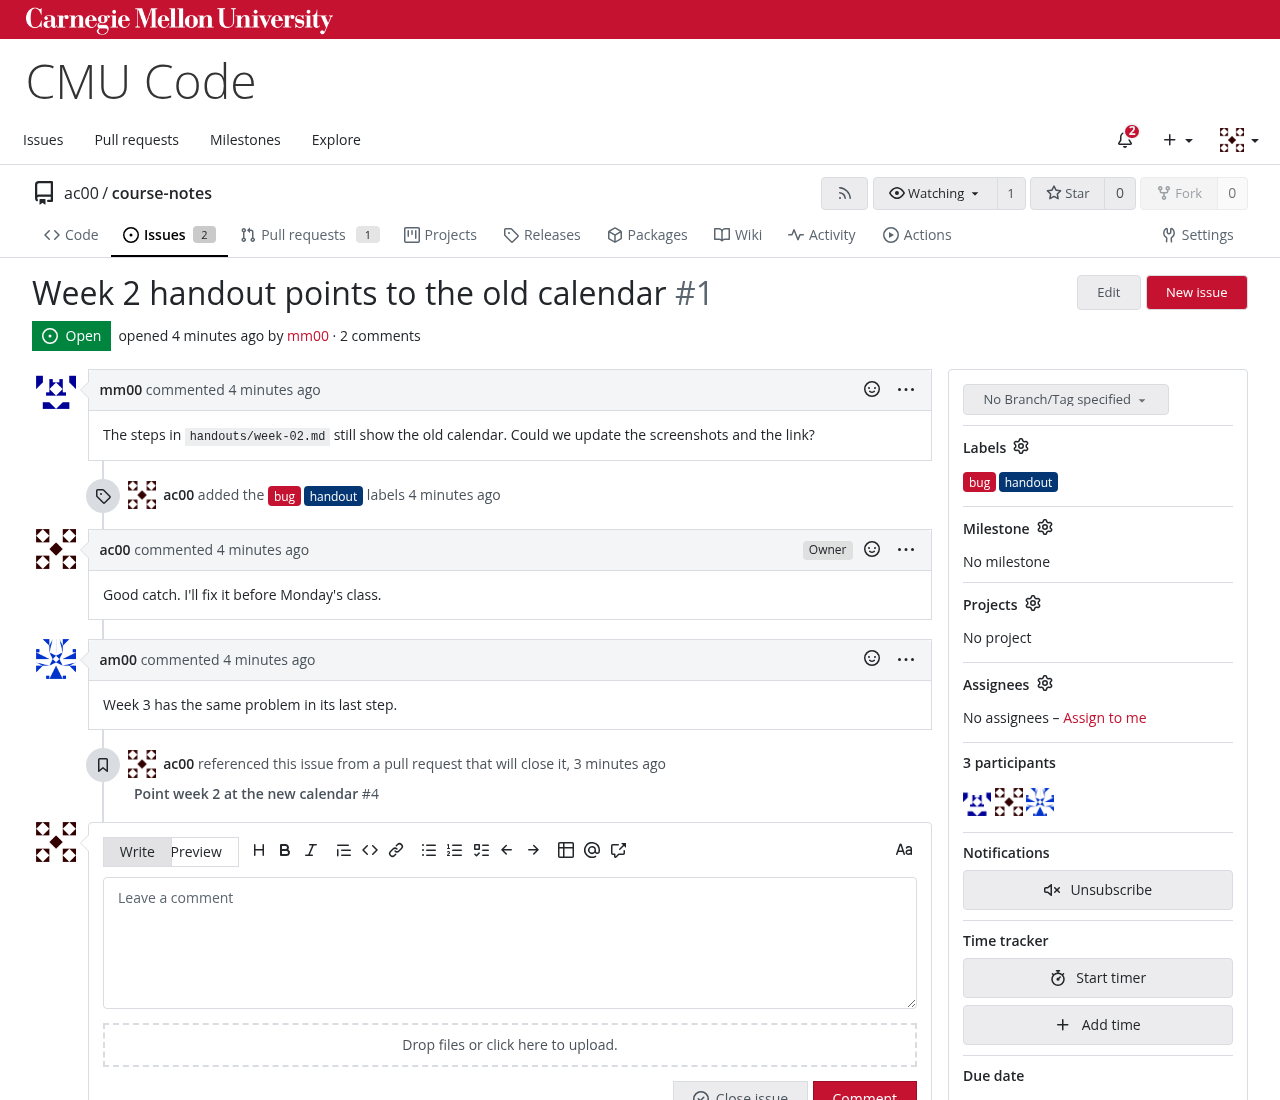
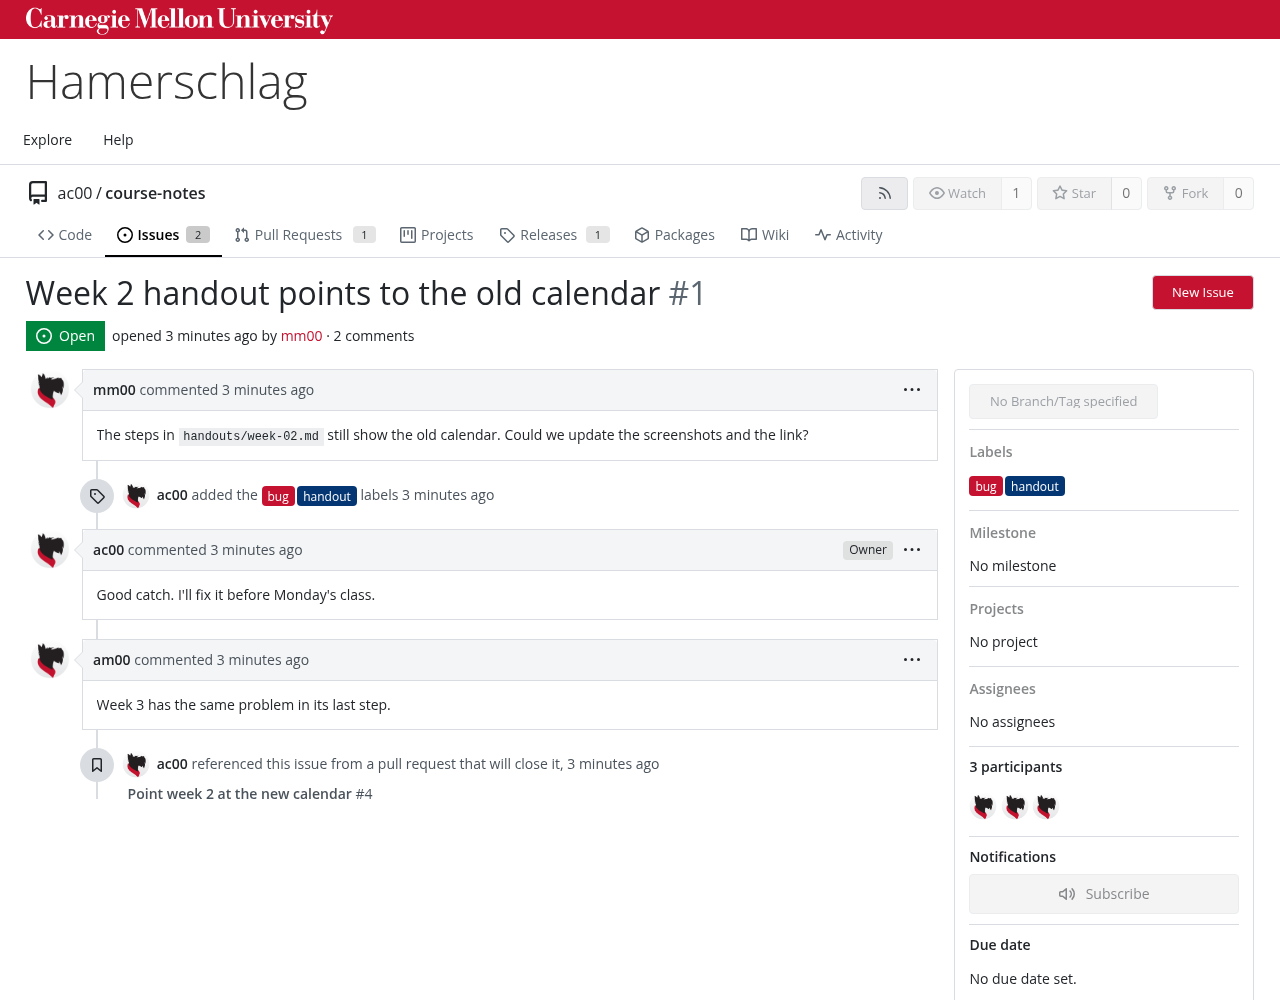
docs: README for Hamerschlag, its demo and an AI agent prompt
* What it replaces in Forgejo, to check on every update
* Set Up With an AI Agent
* Demo and Run It Locally sections
* Fresh screenshots and the cmu-web-preview.webp card image

diff --git a/README.md b/README.md
@@ -4,9 +4,11 @@ A light theme for [Forgejo](https://forgejo.org/) that follows Carnegie
 Mellon's web template and the
 [Carnegie Mellon Web Kilt](https://webkilt.andrew.cmu.edu/0/). It adds the
 template's red roof with the wordmark, the site name and the dark footer, and
-turns Forgejo's own colors, corners and font into the Kilt's.
+turns Forgejo's own colors, corners, font and labels into the Kilt's.
 
-![An issue in Forgejo with the CMU header and footer.](images/issue.png)
+See it on the demo: https://hamerschlag.andrew.cmu.edu/
+
+![An issue in Forgejo with the CMU header.](images/issue.png)
 
 Built for Forgejo 17.0.1 and the Web Kilt 0.6.9.
 
@@ -20,20 +22,30 @@ Built for Forgejo 17.0.1 and the Web Kilt 0.6.9.
   the site name (Forgejo's `APP_NAME`), linking home. Forgejo's menu bar sits
   under it, without Forgejo's logo.
 - **Footer:** the template's dark footer with the site name, the university's
-  address, Legal Info and www.cmu.edu, after Forgejo's own footer line.
+  address, Legal Info and www.cmu.edu.
+- **Labels:** menus, tabs and main buttons in Title Case ("Pull Requests,"
+  "Find a File," "New Issue").
+- **Edges:** Forgejo's side margins follow the template's, so the header,
+  the page and the footer line up.
+- **Default avatar:** Scotty, for deleted users and anyone Forgejo can't make
+  an avatar for.
 
-The header and footer use the template's own stylesheet and the Kilt's, hotlinked
-and kept inside the header and footer so they can't change Forgejo's pages.
-Everything else starts from Forgejo's light theme.
+The header and footer use the template's own stylesheet, hotlinked from
+cmu.edu. It loads in a cascade layer: every rule of Forgejo's wins over it,
+and it's turned off outside the header and footer, so it can't change
+Forgejo's pages. There's no script.
 
 ## Install
 
 You need a Forgejo admin's access to its custom folder (`CustomPath`, often
 `/var/lib/forgejo/custom` or, in the container, `/var/lib/gitea/custom`).
 
-1. Copy this repository's `custom/public` and `custom/templates` into
+1. Download the latest
+   [release](https://github.com/cmu-web/cmu-web-hamerschlag/releases) and copy
+   its `custom/public`, `custom/templates` and `custom/options` into
    Forgejo's custom folder.
-2. In `app.ini`, add the theme and make it the default:
+2. In `app.ini`, add the theme, make it the default and hide Forgejo's
+   footer line:
 
    ```ini
    APP_NAME = CMU Code
@@ -43,19 +55,51 @@ You need a Forgejo admin's access to its custom folder (`CustomPath`, often
    DEFAULT_THEME = hamerschlag
 
    [other]
+   SHOW_FOOTER_POWERED_BY = false
+   SHOW_FOOTER_VERSION = false
    SHOW_FOOTER_TEMPLATE_LOAD_TIME = false
    ```
 
-3. Restart Forgejo. Templates load at startup; the CSS loads on each page.
+3. Restart Forgejo. Templates and labels load at startup; the CSS loads on
+   each page.
 
 Change `APP_NAME` to your site's name. People who already picked a theme keep
 it; they can switch under **Settings**, **Appearance**.
 
-## Update the Kilt
+## What It Replaces in Forgejo
+
+Check these against every Forgejo update.
+
+- **No base templates.** The header and footer use Forgejo's own spots for
+  additions, which are empty by default:
+  `custom/templates/custom/header.tmpl` (the font and icons),
+  `custom/templates/custom/body_inner_pre.tmpl` (the header) and
+  `custom/templates/custom/footer.tmpl` (the footer). If your Forgejo
+  already uses any of them, merge by hand.
+- **Forgejo's English labels,** `custom/options/locale/locale_en-US.ini`
+  and `custom/options/locale_next/locale_en-US.json`. A custom locale file
+  replaces Forgejo's whole file, so these are built from the Forgejo version
+  named in `scripts/build.mjs`. With another Forgejo version, rebuild them
+  first (see Update the Kilt or Forgejo), or leave `custom/options` out and
+  keep Forgejo's own labels.
+- **The default avatar,** `custom/public/assets/img/avatar_default.png`.
+
+## Set Up With an AI Agent
+
+Copy this into an AI coding agent that can reach your Forgejo server, and it
+installs the theme:
+
+```text
+Install the Hamerschlag theme on this Forgejo instance. Download the latest release of https://github.com/cmu-web/cmu-web-hamerschlag and copy its custom/public, custom/templates and custom/options folders into the instance's custom folder (CustomPath, often /var/lib/forgejo/custom, or /var/lib/gitea/custom in the container), and stop to ask before overwriting any file the instance already has there. In app.ini, add hamerschlag to [ui] THEMES and set DEFAULT_THEME = hamerschlag; under [other], set SHOW_FOOTER_POWERED_BY and SHOW_FOOTER_VERSION to false. Restart Forgejo. Then compare the instance's Forgejo version with FORGEJO in the release's scripts/build.mjs: if they differ, check that custom/header.tmpl, custom/body_inner_pre.tmpl and custom/footer.tmpl are still empty extension points in that version, and rebuild the labels with node scripts/build.mjs after setting FORGEJO to the instance's version, or remove custom/options and keep Forgejo's own labels.
+```
+
+## Update the Kilt or Forgejo
 
 `scripts/build.mjs` builds `custom/` from `src/`. It reads the Kilt's colors
-from the pinned release on jsDelivr and adds the integrity hashes for its
-stylesheets. To move to a new Kilt, change `KILT` in the script, then:
+from the pinned Kilt release on jsDelivr, and Forgejo's English labels from
+the pinned Forgejo version's source, then changes only the labels listed in
+`src/locale/title-case.json`. It stops if one of them is gone. To move to a
+new Kilt or Forgejo, change `KILT` or `FORGEJO` in the script, then:
 
 ```sh
 node scripts/build.mjs
@@ -64,36 +108,61 @@ node scripts/build.mjs
 Edit `src/`, never `custom/`, then rebuild. Commit both, so an admin can copy
 `custom/` without Node.
 
-## Look at It Locally
+## Demo
 
-`dev/run.sh` runs Forgejo in Docker on 127.0.0.1 with the theme mounted, and
-`dev/seed.mjs` fills it with made-up people (Andrew Carnegie, Margaret
-Morrison and Andrew Mellon), three repositories, issues and a pull request.
+https://hamerschlag.andrew.cmu.edu/ runs Forgejo with the theme and made-up
+people and projects. It's thrown away and rebuilt on every deploy from this
+repository: `demo/app.ini` holds its settings and `demo/seed.mjs` its people
+(Andrew Carnegie, Margaret Morrison and Andrew Mellon), repositories, issues,
+a pull request and a release.
+
+Nobody signs in. Forgejo's sign-in, sign-ups, SSH, mail, federation and
+Actions are off; the seed works through a one-time admin token. The web
+server in front also blocks the sign-in pages and everything but reading and
+cloning: only GET and HEAD reach Forgejo, plus git's `upload-pack` for
+clones. The demo uses `demo/theme-hamerschlag-demo.css`, the theme without
+its Sign In links.
+
+### Run It Locally
+
+`dev/run.sh` runs the demo in Docker on 127.0.0.1:
 
 ```sh
 dev/run.sh up      # http://127.0.0.1:3700/
 dev/run.sh seed
+dev/run.sh refresh # after node scripts/build.mjs
 dev/run.sh down
+dev/run.sh reset   # throw the data away
 ```
 
-Sign in as `ac00` with the password in `dev/seed.mjs`. Data stays in
-`dev/data`, which git ignores. Restart after a template change; a CSS change
-shows on reload.
+To look at signed-in pages on your own machine, start it with `SIGNIN=1`
+(`SIGNIN=1 dev/run.sh up`, then `SIGNIN=1 dev/run.sh seed`, which prints a
+password for `ac00`). The hosted demo never uses it. Data stays in
+`dev/data`, which git ignores.
 
 ![The repository page on a phone.](images/repo-phone.png)
 
 ## Known Gaps
 
+- **Wide screens.** Above about 1,330 pixels, Forgejo's content stops growing
+  before the template's header does, so their edges drift apart, up to 16
+  pixels on each side.
+- **Labels.** Only menus, tabs and main buttons are in Title Case. Settings
+  pages and other screens still use Forgejo's sentence-case labels.
+- **Avatars.** Forgejo makes a patterned avatar for each person who doesn't
+  upload one. Scotty shows only for deleted users and when that fails.
 - **Light only.** The dark themes stay Forgejo's own.
-- **Script for the header.** The template's rules start from `body`, which a
-  header kept apart from the page doesn't have, so a short script gives it
-  one. Without JavaScript, the roof shows without the wordmark.
-- **Gutters.** The header's left edge and Forgejo's content are a few pixels
-  apart on wide screens.
-- **Avatars** are Forgejo's generated ones.
+- **Newer browsers.** Keeping the template's styles off Forgejo's pages uses
+  CSS `@scope` (Chrome and Edge 118, Safari 17.4, Firefox 146 and later). In
+  older browsers a few of the template's styles show on Forgejo's pages.
+- **The template's element rules.** Images, tables, video and iframes keep
+  their size and alignment attributes, so the theme reverts only the
+  template's own rules for them, as of `main.6.7.min.css`. Check that list in
+  `src/theme-hamerschlag.css` when the template changes.
 - **No menu in the roof.** The template's search and site menu aren't used;
   Forgejo's menu bar does that job.
 
 ## License
 
-BSD 3-Clause. See `LICENSE`.
+BSD 3-Clause. See `LICENSE`. The license doesn't cover Carnegie Mellon's
+names, marks, Scotty artwork or web template; see `src/img/NOTICE.md`.
